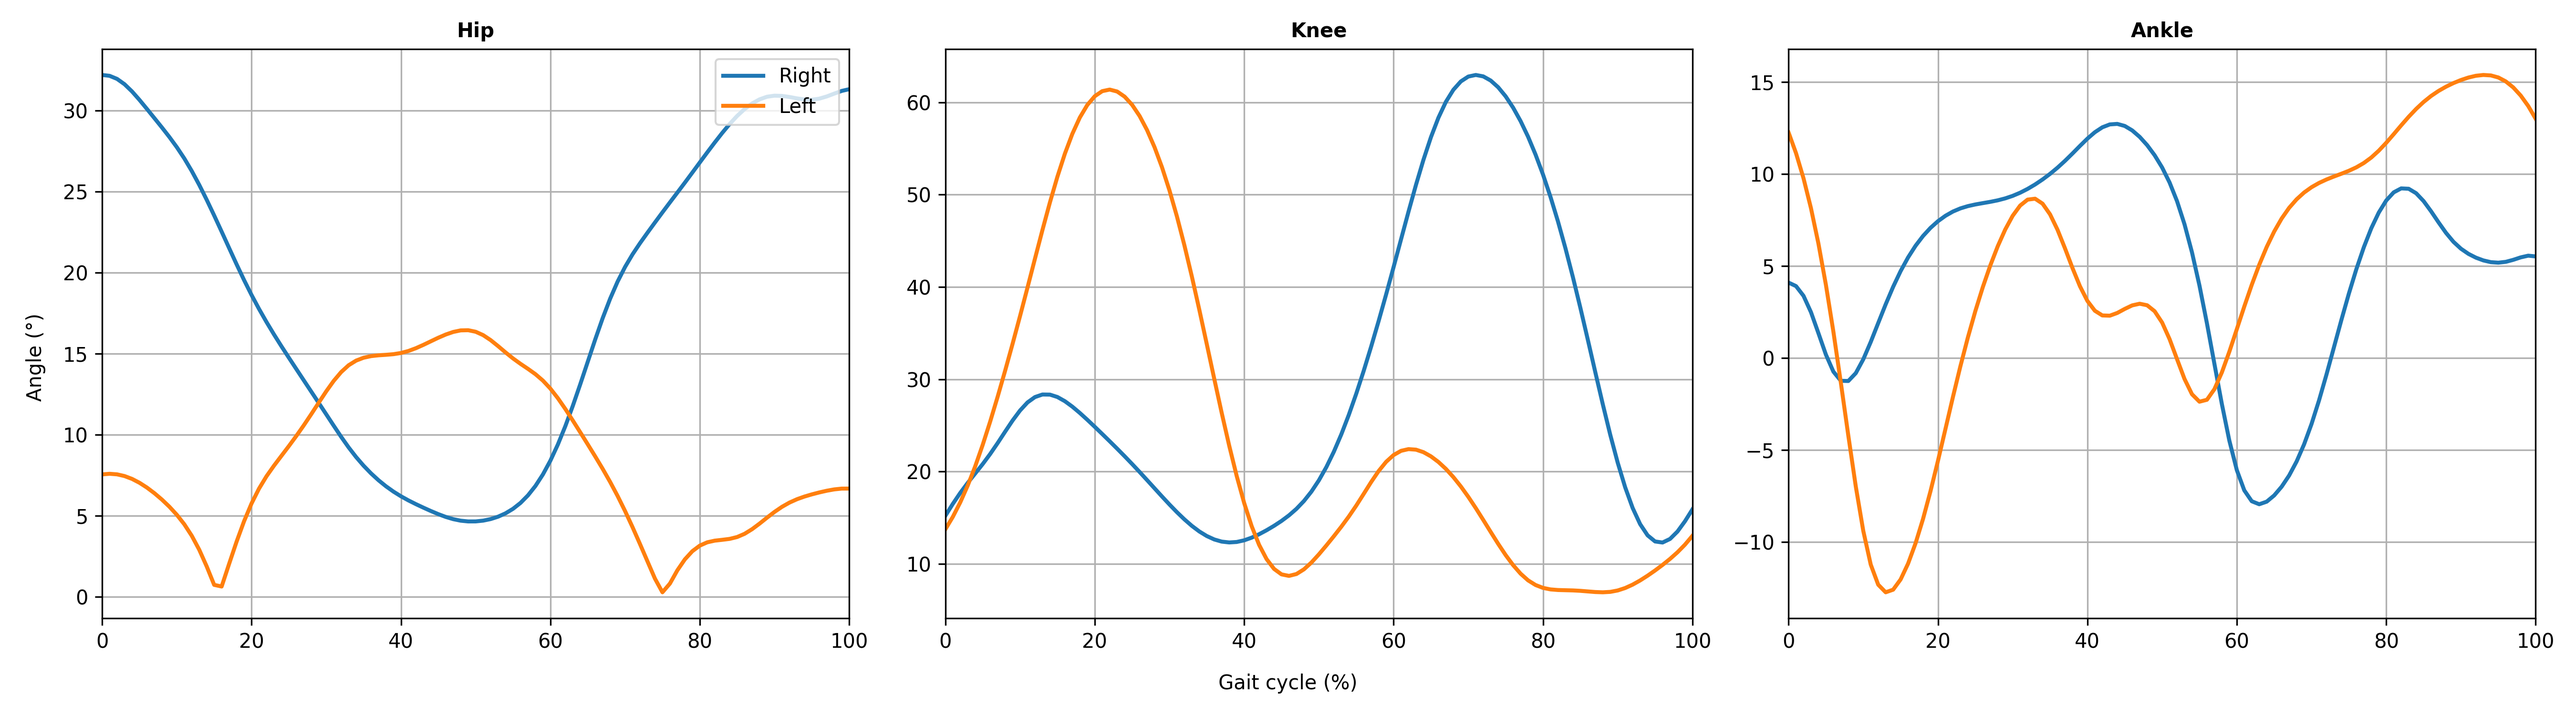
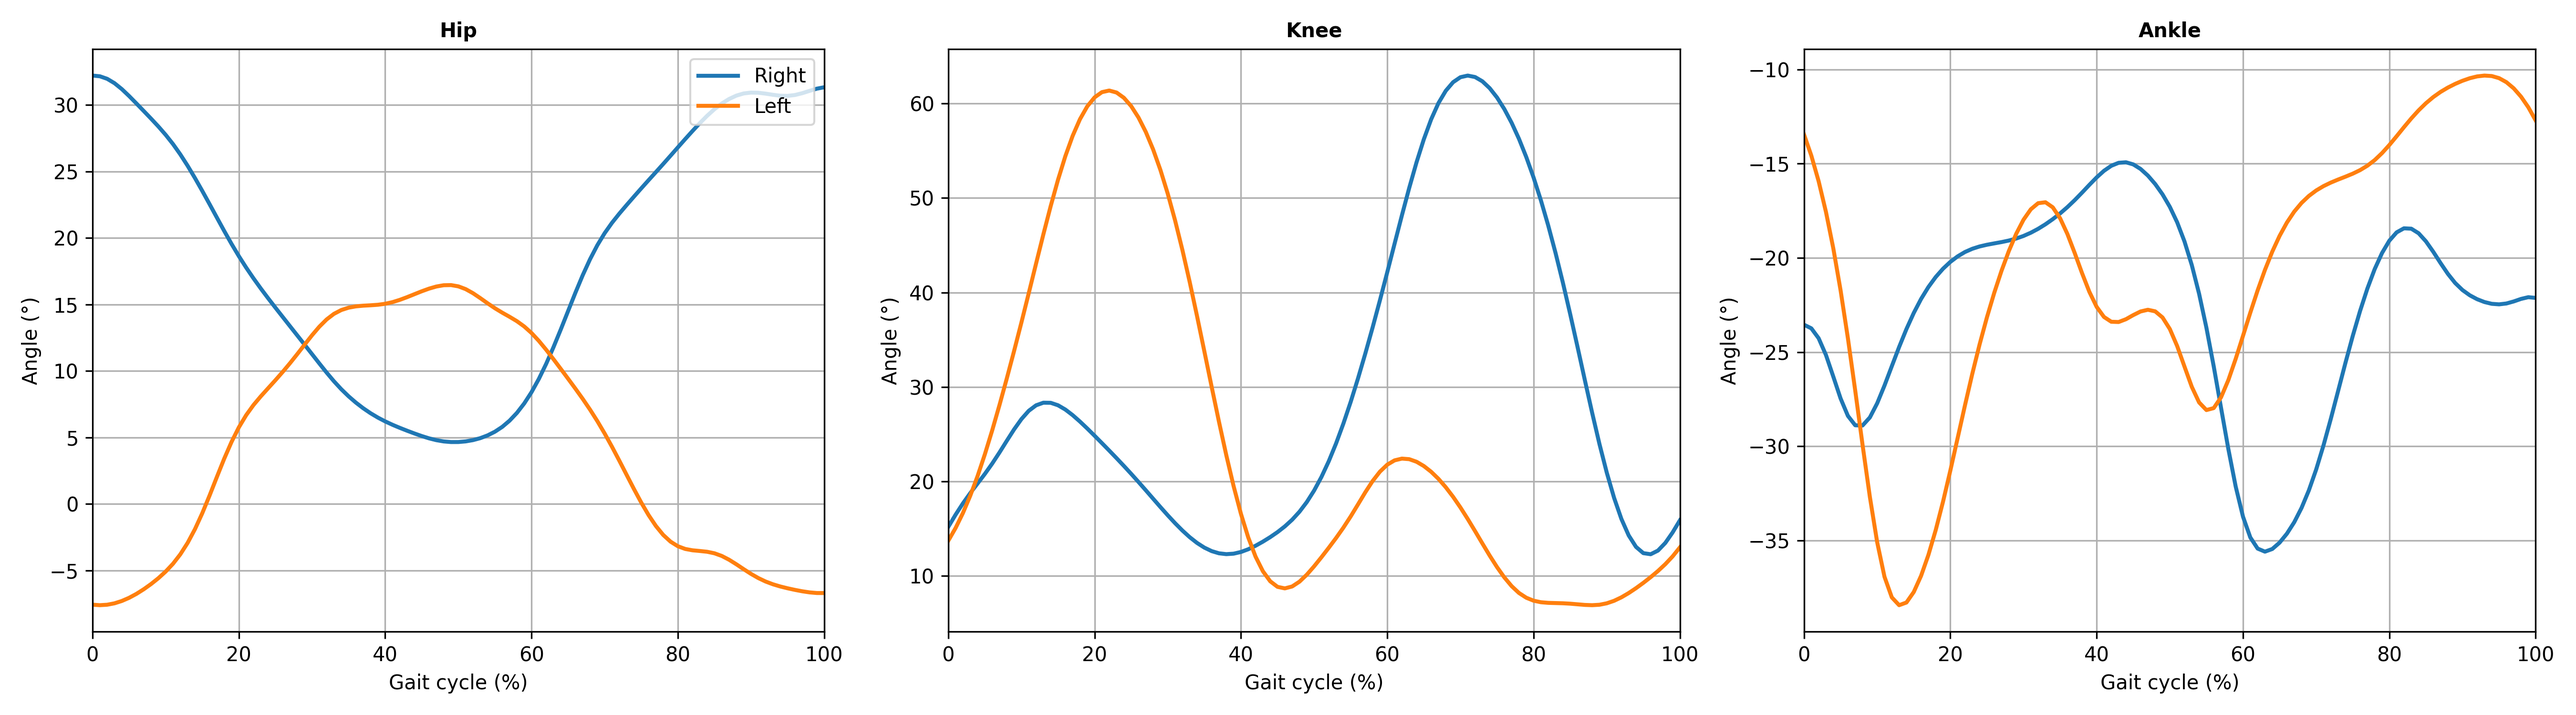
fix wrap-around problem

diff --git a/scripts/main.py b/scripts/main.py
@@ -2,32 +2,19 @@ from config import DATA, REP
 from functions import *
 
 import moveck_bridge_btk as btk
-import numpy as np
 import matplotlib.pyplot as plt
 
-#file import
+#---- File import ----#
 c3d_file = DATA / "Hugo01.c3d"
 h = btk.btkReadAcquisition(str(c3d_file))
 filename = c3d_file.stem
 output_dir = REP / filename
 output_dir.mkdir(parents=True, exist_ok=True)
 
-#variables
-"""
-recording sampling frequency = 100 Hz
-markers : CHEVILLE_D, CHEVILLE_G, EIAS_D, EIAS_G, GENOU_D, GENOU_G, HANCHE_D, HANCHE_G, PIED_D, PIED_G
-position = mm
-analog sampling frequency = 1000 Hz
-force = N
-moment = Nmm
-"""
-
+#---- Variables ----#
+##Markers
 markers, markersInfo = btk.btkGetMarkers(h)
-frame = btk.btkGetPointFrameNumber(h)
 freq = btk.btkGetPointFrequency(h)
-time = np.arange(frame)/freq
-dt = 1 / freq
-
 mrk = {
     "ASIS": {"left": "EIAS_G", "right": "EIAS_D"},
     "Hip":  {"left": "HANCHE_G", "right": "HANCHE_D"},
@@ -36,13 +23,37 @@ mrk = {
     "Foot": {"left": "PIED_G", "right": "PIED_D"}
 }
 
+##Segments
+left_pelvis = markers["EIAS_G"] - markers["HANCHE_G"]
+right_pelvis = markers["EIAS_D"] - markers["HANCHE_D"]
+left_thigh = markers["GENOU_G"] - markers["HANCHE_G"]
+right_thigh = markers["GENOU_D"] - markers["HANCHE_D"]
+left_leg = markers["GENOU_G"] - markers["CHEVILLE_G"]
+right_leg = markers["GENOU_D"] - markers["CHEVILLE_D"]
+left_foot = markers["PIED_G"] - markers["CHEVILLE_G"]
+right_foot = markers["PIED_D"] - markers["CHEVILLE_D"]
+
+##Angles
+left_hip = 180 - (angle(left_thigh) - angle(left_pelvis))
+right_hip = 180 - (angle(right_thigh) - angle(right_pelvis))
+left_knee = 180 - (angle(left_thigh) - angle(left_leg))
+right_knee = 180 - (angle(right_thigh) - angle(right_leg))
+left_ankle = 90 - (angle(left_foot) - angle(left_leg))
+right_ankle = 90 - (angle(right_foot) - angle(right_leg))
+
+angles = {
+    "Hip":   {"left": left_hip, "right": right_hip},
+    "Knee":  {"left": left_knee, "right": right_knee},
+    "Ankle": {"left": left_ankle, "right": right_ankle}
+}
+
+##Forceplates
 forceplates, forceplatesInfo = btk.btkGetForcePlatforms(h)
 grw = btk.btkGetGroundReactionWrenches(h)
-fp_frame = btk.btkGetAnalogFrameNumber(h)
 fp_freq = btk.btkGetAnalogFrequency(h)
-fp_time = np.arange(fp_frame)/fp_freq
 active_forceplates = []
 
+##Events
 events = {
     "left": {
         "HS": {"frame": [], "time": []},
@@ -54,77 +65,7 @@ events = {
     }
 }
 
-left_foot = markers["PIED_G"][:,1:] - markers["CHEVILLE_G"][:,1:]
-right_foot = markers["PIED_D"][:,1:] - markers["CHEVILLE_D"][:,1:]
-left_leg = markers["GENOU_G"][:,1:] - markers["CHEVILLE_G"][:,1:]
-right_leg = markers["GENOU_D"][:,1:] - markers["CHEVILLE_D"][:,1:]
-left_thigh = markers["GENOU_G"][:,1:] - markers["HANCHE_G"][:,1:]
-right_thigh = markers["GENOU_D"][:,1:] - markers["HANCHE_D"][:,1:]
-left_pelvis = markers["EIAS_G"][:,1:] - markers["HANCHE_G"][:,1:]
-right_pelvis = markers["EIAS_D"][:,1:] - markers["HANCHE_D"][:,1:]
-
-left_ankle = 90 - angle_between(left_foot, left_leg)
-right_ankle = 90 - angle_between(right_foot, right_leg)
-left_knee = 180 - angle_between(left_leg, left_thigh)
-right_knee = 180 - angle_between(right_leg, right_thigh)
-left_hip = 180 - angle_between(left_thigh, left_pelvis)
-right_hip = 180 - angle_between(right_thigh, right_pelvis)
-
-angles = {
-    "Hip":   {"left": left_hip,   "right": right_hip},
-    "Knee":  {"left": left_knee,      "right": right_knee},
-    "Ankle": {"left": left_ankle,     "right": right_ankle}
-}
-
-# --- Table anthropométrique ---
-len_frac = {
-    "Foot": 0.152,
-    "Leg":  0.246,
-    "Thigh":0.18
-}
-mass_frac = {
-    "Foot": 0.0145,
-    "Leg":  0.0465,
-    "Thigh":0.10
-}
-com_frac = {
-    "Foot": 0.50,
-    "Leg":  0.433,
-    "Thigh":0.433
-}
-rg_frac = {
-    "Foot": 0.475,
-    "Leg":  0.302,
-    "Thigh":0.323
-}
-# ------------------------------
-
-body_mass = 70
-body_height = 1.84
-g  = 9.806
-
-anthropo = {
-    "Foot": {
-        "mass": None,
-        "len": None,
-        "com": None,
-        "radius_gyr": None
-    },
-    "Leg": {
-        "mass": None,
-        "len": None,
-        "com": None,
-        "radius_gyr": None
-    },
-    "Thigh": {
-        "mass": None,
-        "len": None,
-        "com": None,
-        "radius_gyr": None
-    }
-}
-
-#gait cycle determination
+#---- Gait cycle determination ----#
 for i in range(len(forceplates)):
     if np.count_nonzero(grw[i]["F"]) == 0:
         continue
@@ -160,22 +101,13 @@ else:
     side = "left"
 start_frame, end_frame = events[side]["HS"]["frame"][0], events[side]["HS"]["frame"][1]
 
-#set ankle reference angles
-window_R = right_leg[events["right"]["HS"]["frame"][0]:events["right"]["TO"]["frame"][0], 0]
-idx_local_R = int(np.argmin(np.abs(window_R)))
-idx_global_R = events["right"]["HS"]["frame"][0] + idx_local_R
-ankle_R = np.asarray(angles["Ankle"]["right"])
-angle_ref_R = ankle_R[idx_global_R]
-angles["Ankle"]["right"] = ankle_R - angle_ref_R
+#---- Joints angles ----#
+"""
+ok pour wrap-around
+tjr un pb de offset
+"""
 
-window_L = left_leg[events["left"]["HS"]["frame"][0]:events["left"]["TO"]["frame"][0], 0]
-idx_local_L = int(np.argmin(np.abs(window_L)))
-idx_global_L = events["left"]["HS"]["frame"][0] + idx_local_L
-ankle_L = np.asarray(angles["Ankle"]["left"])
-angle_ref_L = ankle_L[idx_global_L]
-angles["Ankle"]["left"] = ankle_L - angle_ref_L
-
-#joints angles
+##Reports
 labels = list(angles.keys())
 
 fig, axes = plt.subplots(1, 3, figsize=(18, 5))
@@ -193,17 +125,14 @@ for i, label in enumerate(labels):
     ax.plot(gc, right_norm, label="Right", linewidth=2)
     ax.plot(gc, left_norm,  label="Left", linewidth=2)
 
+    ax.set_ylabel("Angle (°)", fontsize=10)
+    ax.set_xlabel("Gait cycle (%)",fontsize=10)
     ax.set_title(label, fontsize=10, fontweight="bold")
     ax.set_xlim(0, 100)
     ax.grid(True)
 
 axes[0].legend(loc="upper right")
 
-fig.supylabel("Angle (°)", fontsize=10, x=0.01)
-fig.supxlabel("Gait cycle (%)",fontsize=10, y = 0.03)
-
 plt.tight_layout()
 plt.savefig(str(output_dir / "joint_angle.png"), dpi=300)
 plt.close()
-
-#inverse dynamics

diff --git a/scripts/functions.py b/scripts/functions.py
@@ -13,7 +13,6 @@ def sort_events(events):
 
     return events
 
-
 def normalize_cycle(signal, start_frame, end_frame, n_points=101):
     cycle = signal[start_frame:end_frame+1]
     n = len(cycle)
@@ -30,8 +29,6 @@ def derivee(y, dt, ordre):
         y = np.gradient(y, dt)
     return y
 
-def angle_between(u, v):
-    num = np.sum(u * v, axis=1)
-    den = np.linalg.norm(u, axis=1) * np.linalg.norm(v, axis=1)
-    cos_theta = np.clip(num / den, -1, 1)
-    return np.rad2deg(np.arccos(cos_theta))
+def angle(v):
+    theta = np.degrees(np.unwrap(np.arctan2(v[:, 1], v[:, 2])))
+    return theta
